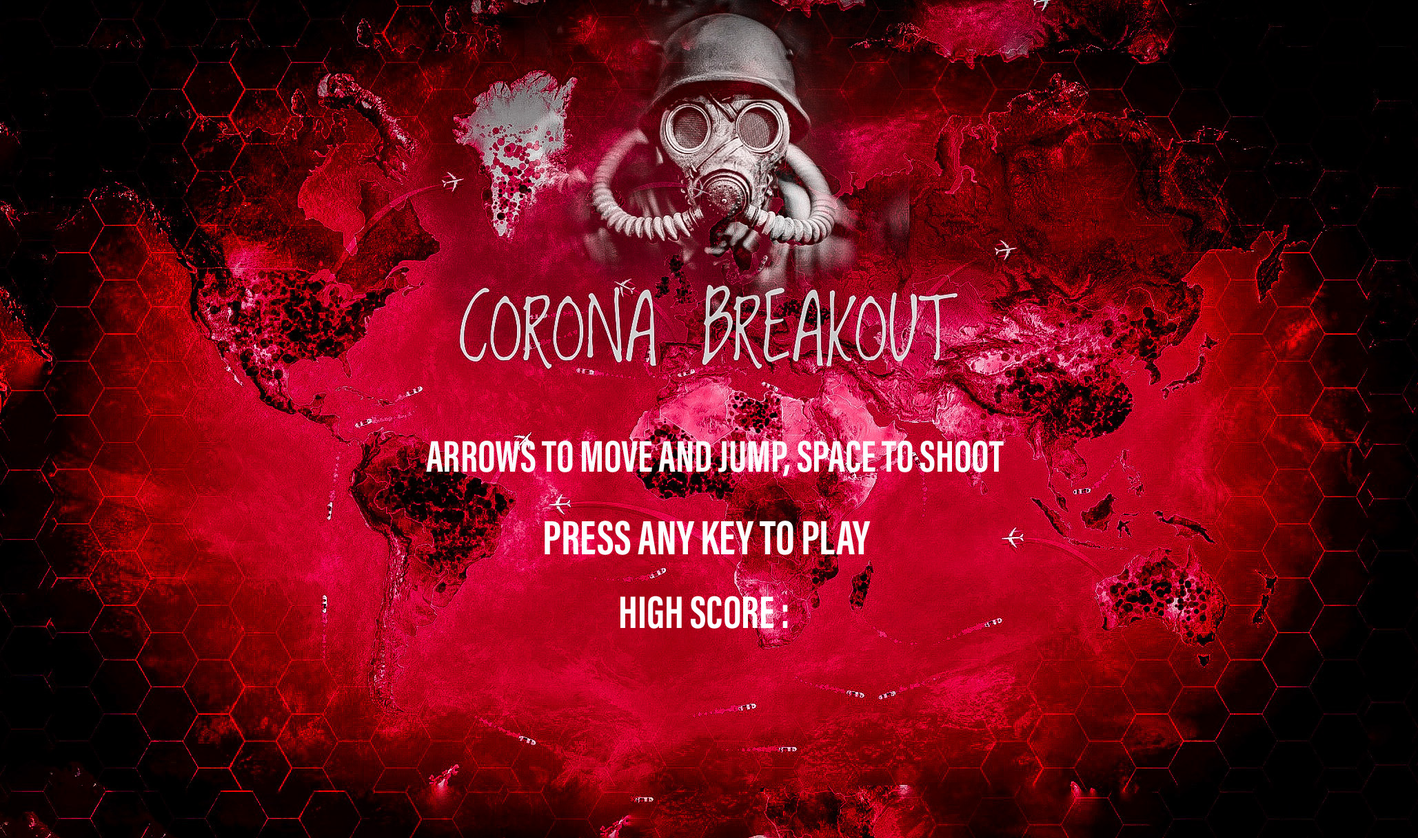
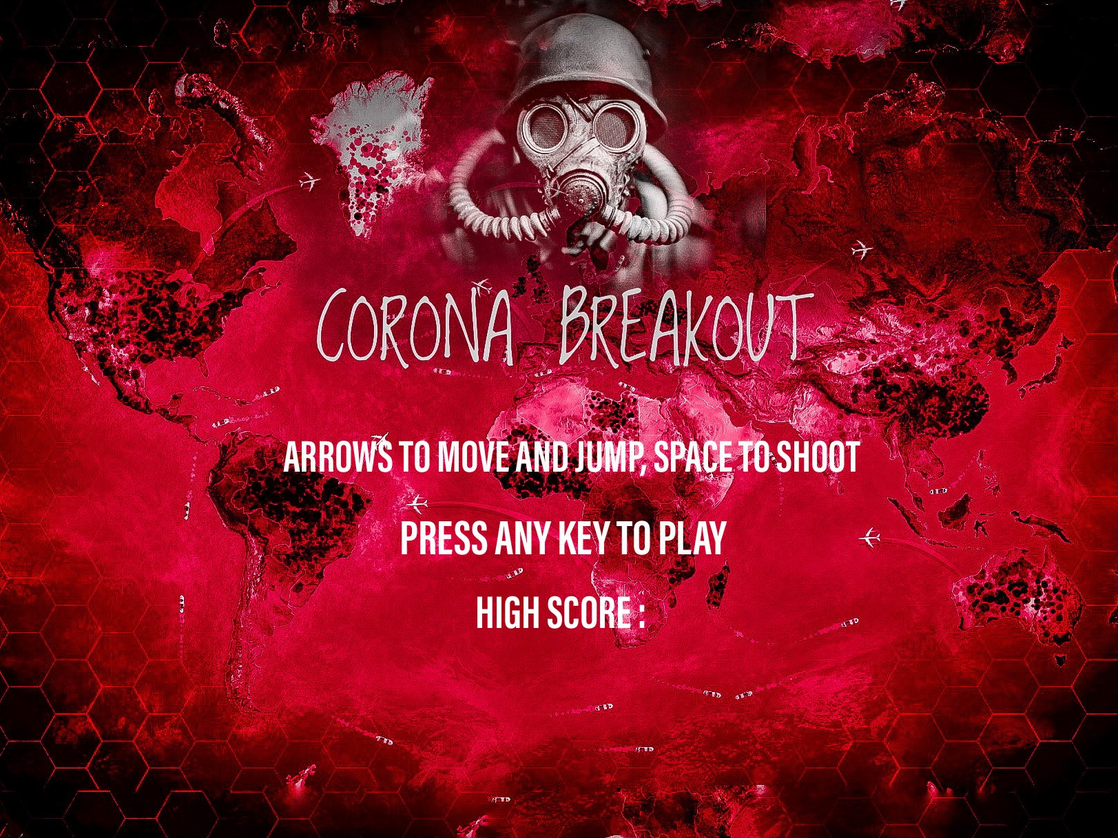
updated gameover screen

diff --git a/game.py b/game.py
@@ -288,7 +288,7 @@ class CoronaBreakout:
         self.draw_text('Press any key to play', 22, s.WHITE,
                        s.WIDTH / 2, s.HEIGHT * 0.6)"""
         self.draw_text(str(self.highscore), 22, s.WHITE,
-                       s.WIDTH * 0.59, s.HEIGHT * 0.707)
+                       s.WIDTH * 0.61, s.HEIGHT * 0.705)
 
         pygame.display.update()
         self.wait_for_key()
@@ -309,13 +309,16 @@ class CoronaBreakout:
         pygame.mixer.music.load(os.path.join(self.sound_dir, "game_over.ogg"))
         pygame.mixer.music.play(loops=-1)
 
-        self.screen.fill(s.BGCOLOR)
+        go_image = pygame.image.load(os.path.join(self.img_dir, 'gameover.jpg')).convert()
+        go_image = pygame.transform.scale(go_image, (s.WIDTH, s.HEIGHT))
 
-        self.draw_text("GAME OVER", 48, s.WHITE, s.WIDTH / 2, s.HEIGHT / 4)
-        self.draw_text(f'Score: {self.score}', 22, s.WHITE,
-                       s.WIDTH / 2, s.HEIGHT / 2)
-        self.draw_text('Press a key to play again', 22, s.WHITE,
-                       s.WIDTH / 2, s.HEIGHT * 3 / 4)
+        self.screen.blit(go_image, (0, 0))
+
+        # self.draw_text("GAME OVER", 48, s.WHITE, s.WIDTH / 2, s.HEIGHT / 4)
+        self.draw_text(str(self.score), 35, s.RED,
+                       s.WIDTH * 0.63, s.HEIGHT * 0.82)
+        # self.draw_text('Press a key to play again', 22, s.WHITE,
+        #                s.WIDTH / 2, s.HEIGHT * 3 / 4)
 
         # draw texts/buttons
 
@@ -345,6 +348,7 @@ class CoronaBreakout:
         """
 
         waiting = True
+        pygame.time.wait(1000)
         while waiting:
             self.clock.tick(s.FPS)
 
@@ -353,7 +357,7 @@ class CoronaBreakout:
                     waiting = False
                     self.running = False
 
-                if all(pygame.key.get_pressed()) == 0 and event.type == pygame.KEYUP:
+                if event.type == pygame.KEYUP:
                     waiting = False
 
     def draw_text(self, text, size, color, x, y):
